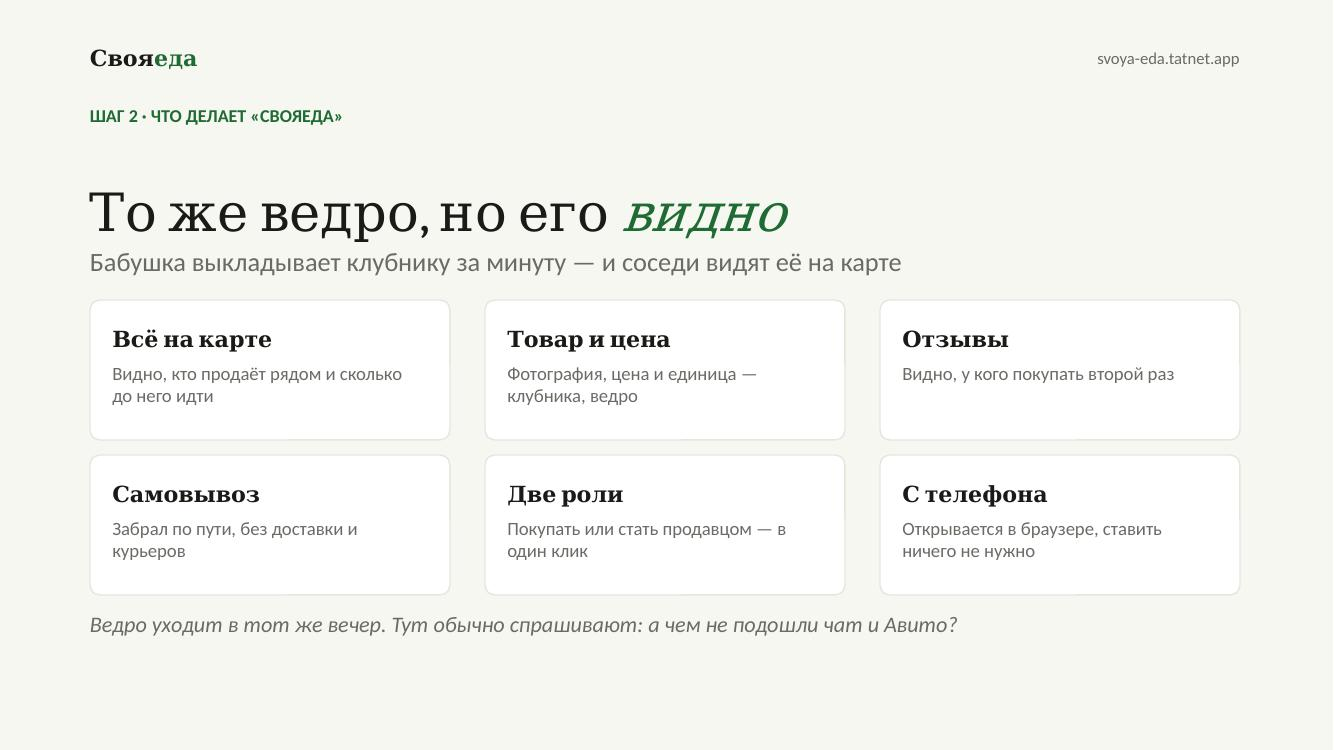
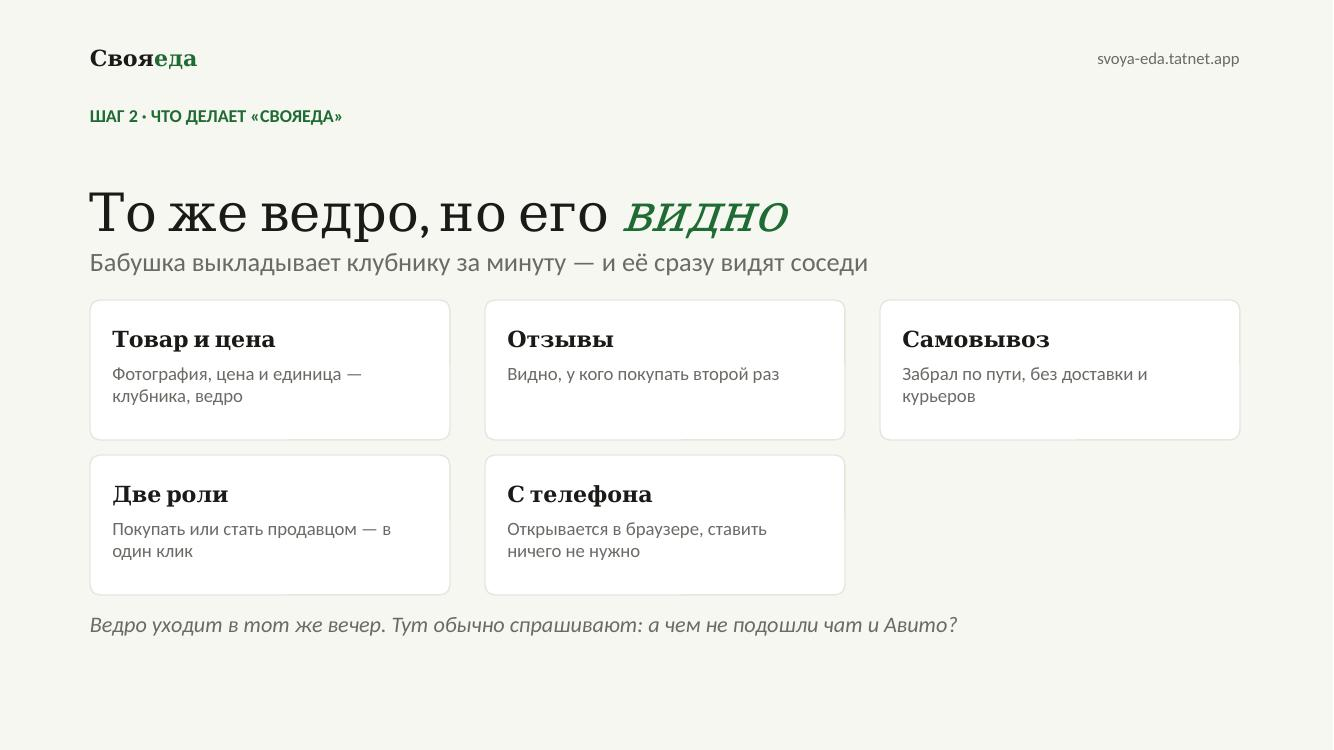
Презентация «СвояЕда»: убрал карту и уведомления
Карточка «Всё на карте» и упоминания карты сняты с третьего слайда,
в таблице сравнения строка про карту заменена на «да, соседи».
С последнего слайда убрана карточка «Уведомления».

Claude-Session: https://claude.ai/code/session_01UCfuNZfDbrhxk1VzE5dQdM

diff --git a/deck/svoyaeda.js b/deck/svoyaeda.js
@@ -131,26 +131,24 @@ heading(s, [
   { text: "То же ведро, но его ", options: { color: INK } },
   { text: "видно", options: { color: GREEN, italic: true } },
 ], 1.6, 38);
-s.addText("Бабушка выкладывает клубнику за минуту — и соседи видят её на карте",
+s.addText("Бабушка выкладывает клубнику за минуту — и её сразу видят соседи",
   { x: M, y: 2.45, w: 10.5, h: 0.45, isTextBox: true, margin: 0, fontSize: 19,
     color: MUTED, align: "left", valign: "top" });
 const tw = (W - 2 * M - 2 * 0.35) / 3;
-card(s, { x: M, y: 3.0, w: tw, h: 1.4, head: "Всё на карте",
-  body: "Видно, кто продаёт рядом и сколько до него идти", name: "карта" });
-card(s, { x: M + tw + 0.35, y: 3.0, w: tw, h: 1.4, head: "Товар и цена",
+card(s, { x: M, y: 3.0, w: tw, h: 1.4, head: "Товар и цена",
   body: "Фотография, цена и единица — клубника, ведро", name: "каталог" });
-card(s, { x: M + 2 * (tw + 0.35), y: 3.0, w: tw, h: 1.4, head: "Отзывы",
+card(s, { x: M + tw + 0.35, y: 3.0, w: tw, h: 1.4, head: "Отзывы",
   body: "Видно, у кого покупать второй раз", name: "отзывы" });
-card(s, { x: M, y: 4.55, w: tw, h: 1.4, head: "Самовывоз",
+card(s, { x: M + 2 * (tw + 0.35), y: 3.0, w: tw, h: 1.4, head: "Самовывоз",
   body: "Забрал по пути, без доставки и курьеров", name: "самовывоз" });
-card(s, { x: M + tw + 0.35, y: 4.55, w: tw, h: 1.4, head: "Две роли",
+card(s, { x: M, y: 4.55, w: tw, h: 1.4, head: "Две роли",
   body: "Покупать или стать продавцом — в один клик", name: "роли" });
-card(s, { x: M + 2 * (tw + 0.35), y: 4.55, w: tw, h: 1.4, head: "С телефона",
+card(s, { x: M + tw + 0.35, y: 4.55, w: tw, h: 1.4, head: "С телефона",
   body: "Открывается в браузере, ставить ничего не нужно", name: "телефон" });
 s.addText("Ведро уходит в тот же вечер. Тут обычно спрашивают: а чем не подошли чат и Авито?",
   { x: M, y: 6.1, w: W - 2 * M, h: 0.5, isTextBox: true, margin: 0, fontSize: 16,
     italic: true, color: MUTED, valign: "top" });
-s.addNotes("Показать карту с расстоянием — этого нет ни в чате, ни на Авито. Остальное перечислить бегло и сразу перейти к возражению.");
+s.addNotes("Показать живой сайт: карточка товара с ценой и отзывы. Остальное перечислить бегло и сразу перейти к возражению.");
 
 /* ---------- 4. Чем отличается ---------- */
 pres.addSection({ title: "Отличие" });
@@ -172,7 +170,7 @@ const rows = [
   ["Авито и доски объявлений", "дни", "нет, весь город", "частично"],
   [{ text: "«СвояЕда»", options: { bold: true, color: GREEN } },
    { text: "в тот же вечер", options: { bold: true } },
-   { text: "да, на карте", options: { bold: true } },
+   { text: "да, соседи", options: { bold: true } },
    { text: "да, отзывы", options: { bold: true } }],
 ];
 s.addTable(rows, { x: M, y: 3.6, w: W - 2 * M, colW: [4.3, 2.4, 2.4, 2.4],
@@ -198,8 +196,7 @@ s.addText("С клубникой получилось. Ровно так же п
     color: MUTED, align: "left", valign: "top" });
 const nW = (W - 2 * M - 2 * 0.35) / 3;
 [["Первые продавцы", "те, кого в районе уже знают"],
- ["Новые районы", "та же схема, без переделок"],
- ["Уведомления", "«рядом появилась клубника»"]].forEach((n, i) => {
+ ["Новые районы", "та же схема, без переделок"]].forEach((n, i) => {
   card(s, { x: M + i * (nW + 0.35), y: 3.8, w: nW, h: 1.35,
     head: n[0], body: n[1], name: "план " + (i + 1), headSize: 15, bodySize: 13 });
 });
